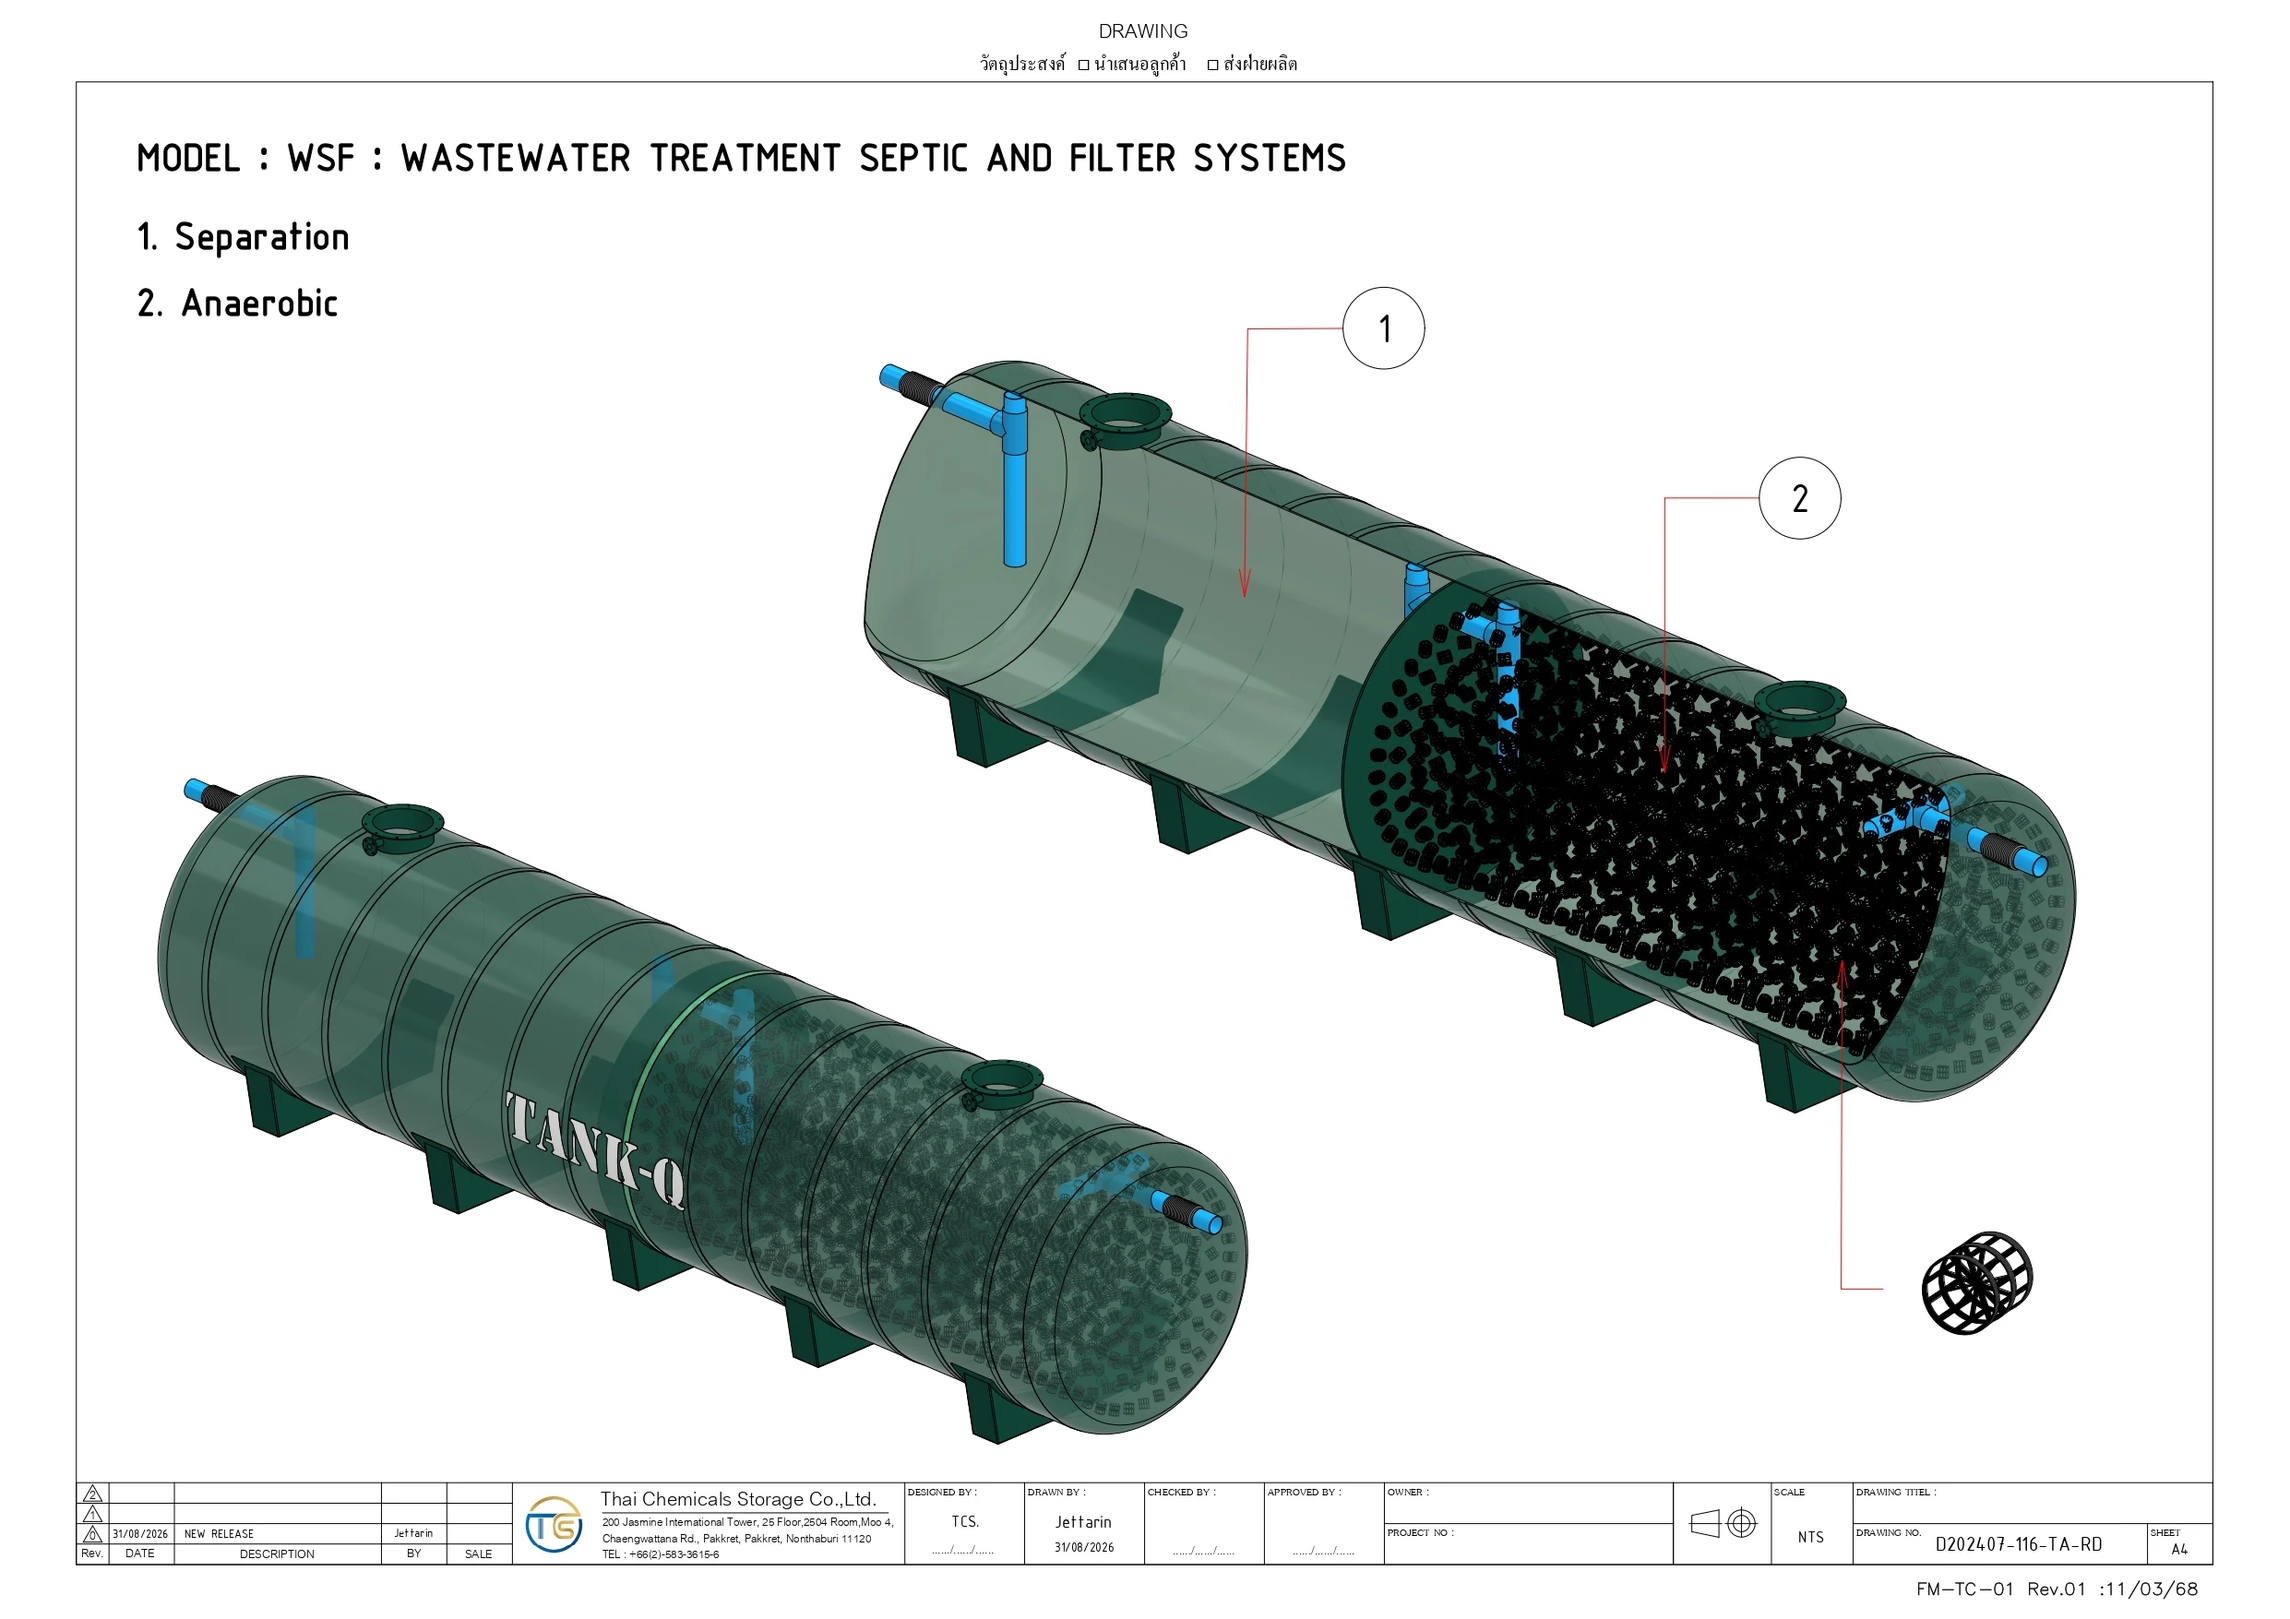
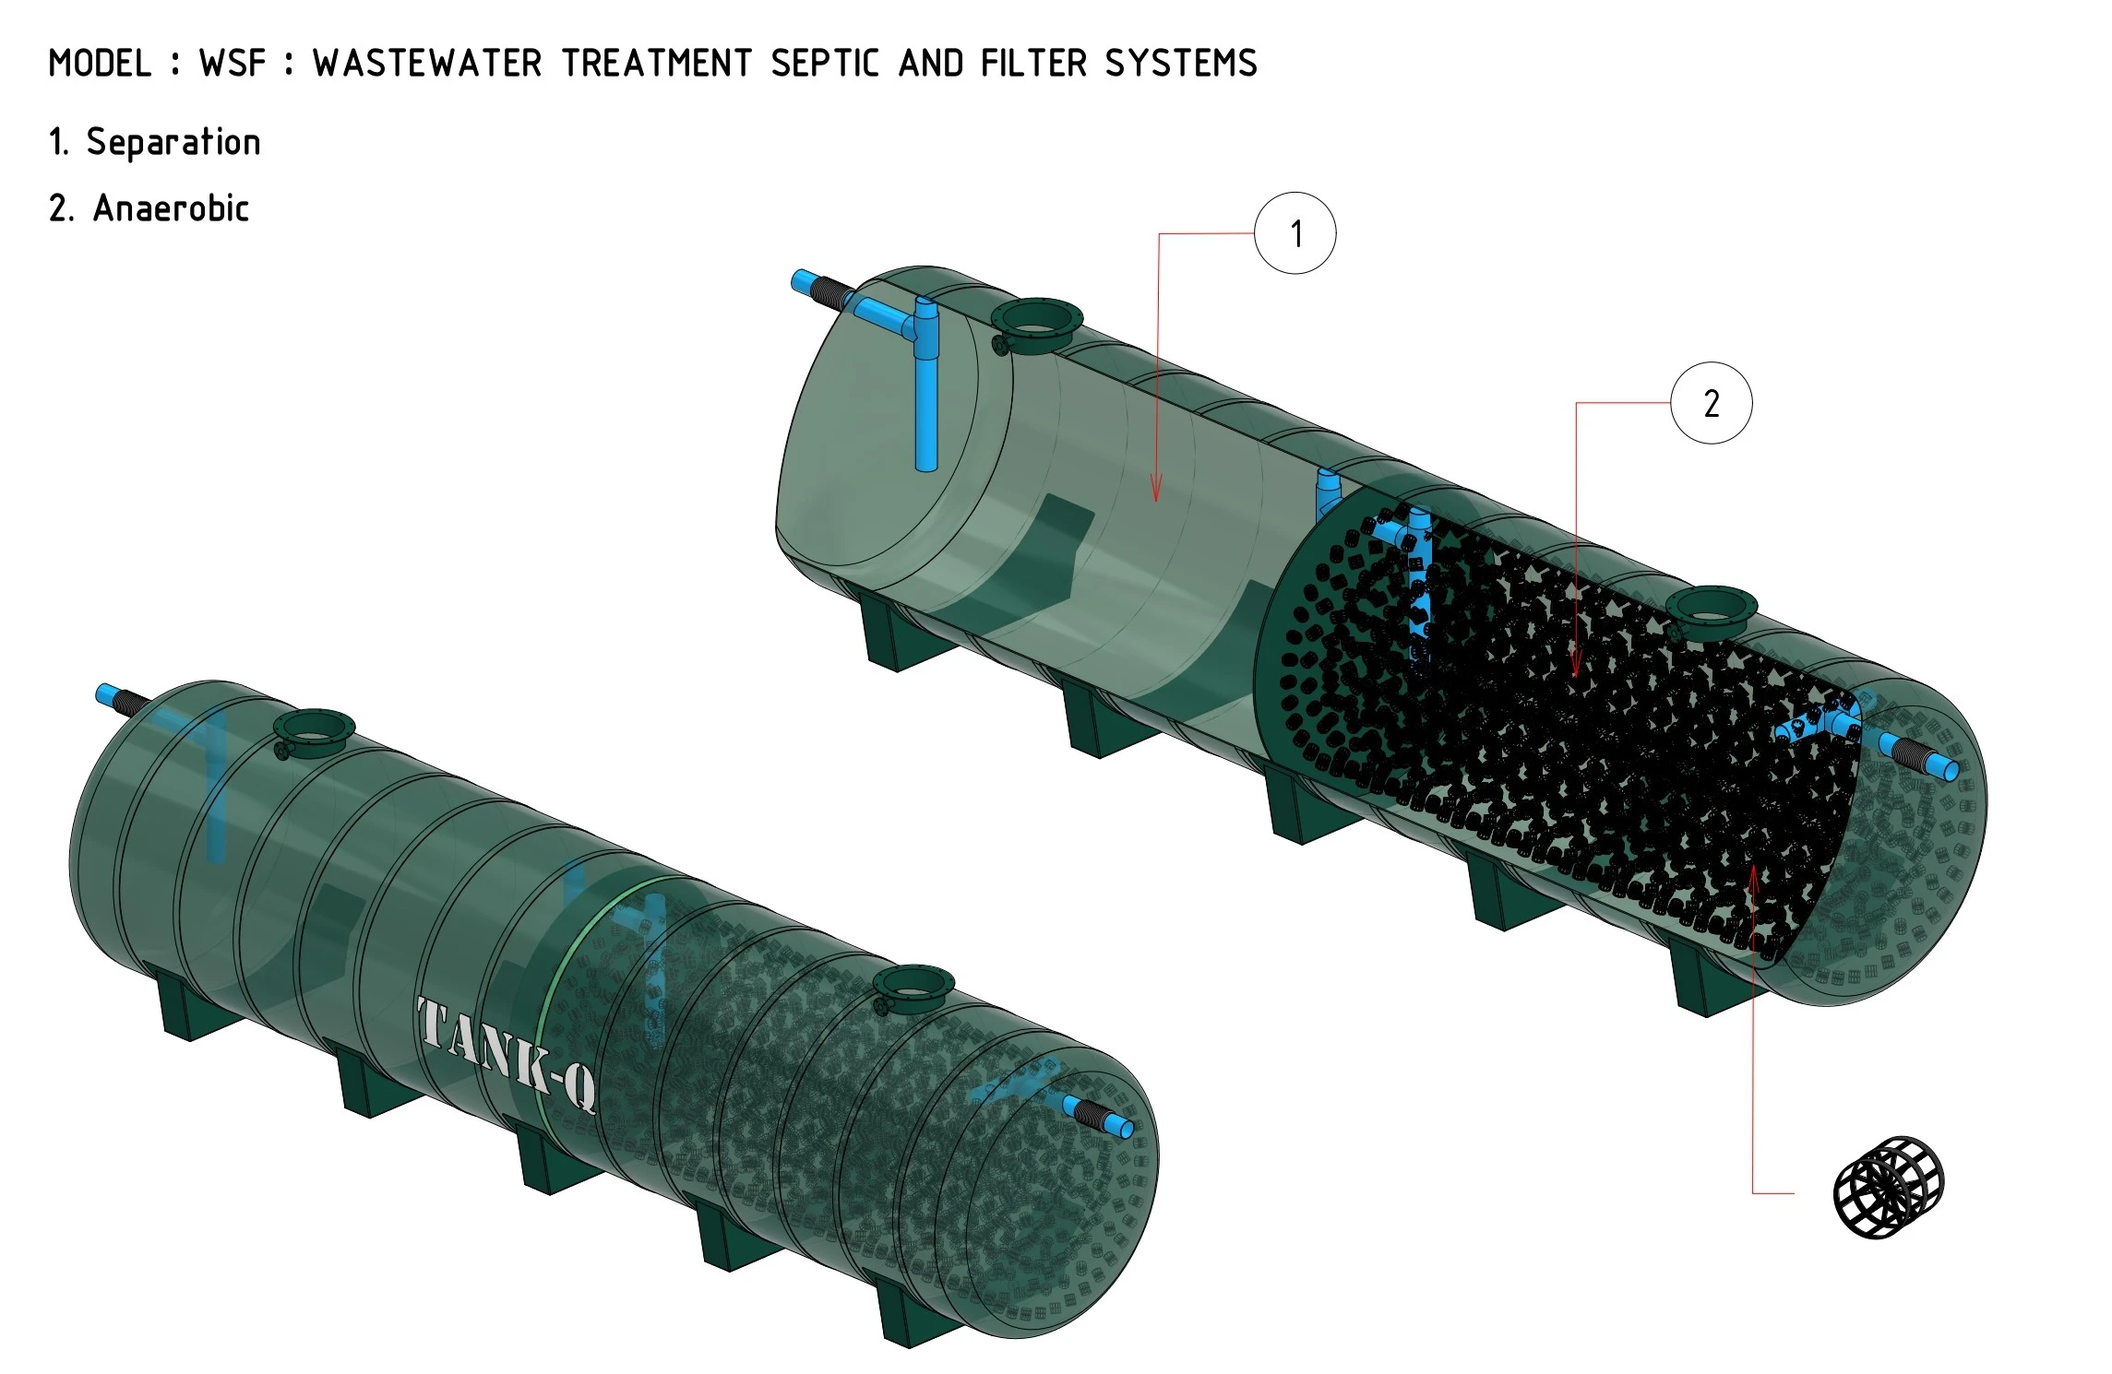
Use cropped septic tank treatment drawings
Replace the three treatment-system diagrams with tighter crops and update
the image dimensions in the section data to match.

Claude-Session: https://claude.ai/code/session_01QbbowrC3e5viZJTVeqTkaC

diff --git a/src/lib/product-section-data.ts b/src/lib/product-section-data.ts
@@ -513,8 +513,8 @@ const productSections: Record<string, ProductSection[]> = {
             th: "ภาพตัดถังบำบัดน้ำเสียแบบเกรอะ-กรองไร้อากาศ แสดงส่วนเกรอะ (1) และส่วนกรองไร้อากาศที่บรรจุวัสดุกรอง (2)",
             en: "Cutaway of the septic - anaerobic filter tank showing the septic chamber (1) and the anaerobic filter chamber packed with filter media (2)",
           },
-          width: 2482,
-          height: 1755,
+          width: 2289,
+          height: 1490,
         },
         {
           type: "list",
@@ -589,8 +589,8 @@ const productSections: Record<string, ProductSection[]> = {
             th: "ภาพตัดถังบำบัดน้ำเสียแบบเกรอะ-กรองเติมอากาศ แสดงส่วนเกรอะ (1) ส่วนกรองเติมอากาศ (2) และส่วนตกตะกอน (3)",
             en: "Cutaway of the septic - aerobic filter tank showing the septic chamber (1), the aerated filter chamber (2) and the sedimentation chamber (3)",
           },
-          width: 2482,
-          height: 1755,
+          width: 2289,
+          height: 1497,
         },
         {
           type: "list",
@@ -686,8 +686,8 @@ const productSections: Record<string, ProductSection[]> = {
             th: "ภาพตัดถังบำบัดน้ำเสียแบบตะกอนเวียนเติมอากาศ แสดงส่วนเกรอะ (1) ส่วนกรองไร้อากาศ (2) ส่วนกรองเติมอากาศ (3) และส่วนตกตะกอน (4)",
             en: "Cutaway of the activated sludge tank showing the septic chamber (1), the anaerobic chamber (2), the aerated filter chamber (3) and the sedimentation chamber (4)",
           },
-          width: 2482,
-          height: 1755,
+          width: 2285,
+          height: 1492,
         },
         {
           type: "list",
